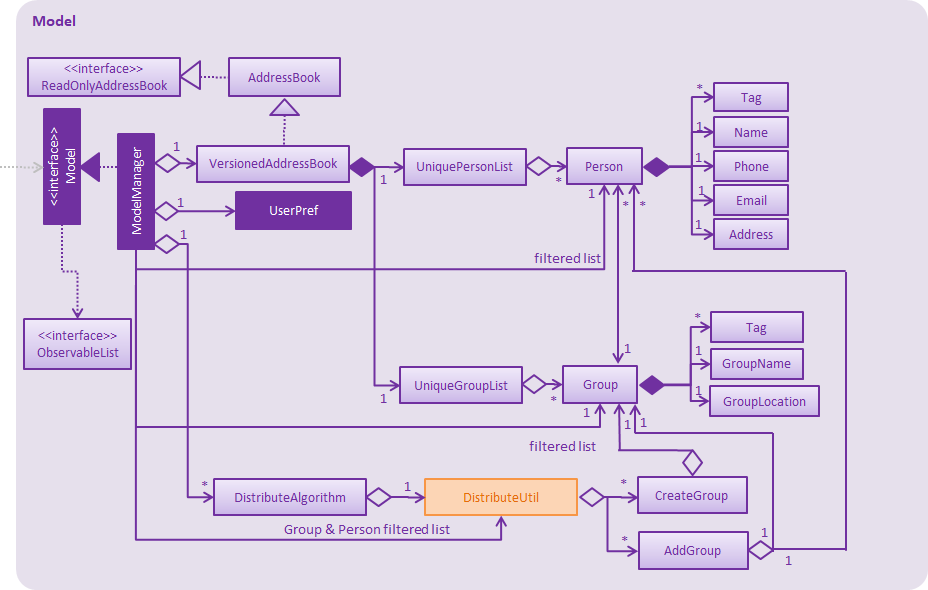
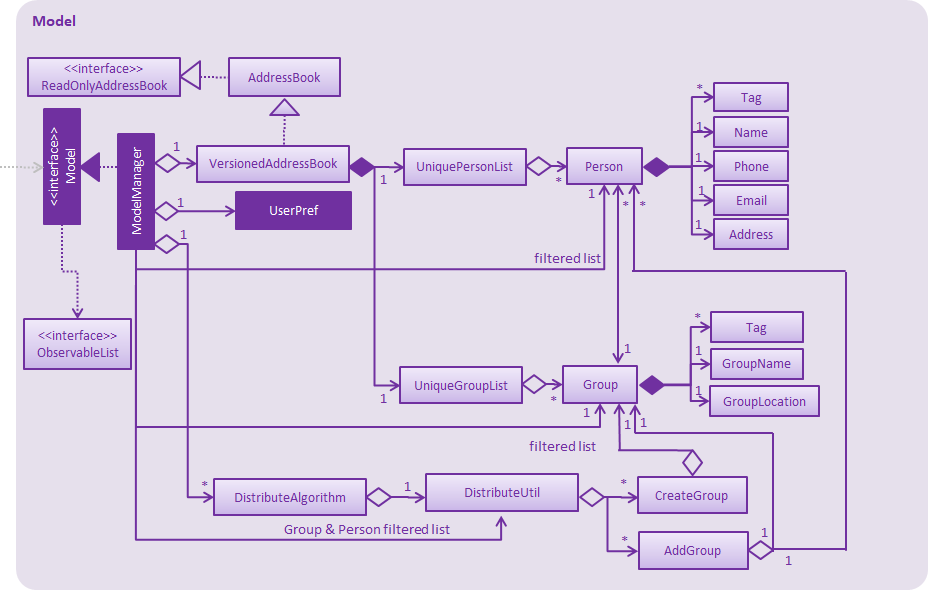
Moved DistributeUtil to Model Component. Moved DistributeUtilTest to ModelTest Component. All files commited are affected by the refactoring. Redesigned Sequence Diagram and UML Class diagram due to restructuring

Changed region(s): [[0.4375, 0.7932, 0.625, 0.8847]]

diff --git a/src/test/java/seedu/address/model/distribute/DistributeUtilTest.java b/src/test/java/seedu/address/model/distribute/DistributeUtilTest.java
@@ -1,13 +1,13 @@
-package seedu.address.commons.util;
+package seedu.address.model.distribute;
 
 import static org.junit.Assert.assertEquals;
 import static org.junit.Assert.assertFalse;
 import static org.junit.Assert.assertNotEquals;
 import static org.junit.Assert.assertNull;
 import static org.junit.Assert.assertTrue;
-import static seedu.address.commons.util.DistributeUtil.GROUP_LOCATION;
 import static seedu.address.logic.commands.CommandTestUtil.INVALID_GENDER_FLAG_WORD;
 import static seedu.address.logic.commands.CommandTestUtil.VALID_GENDER_FEMALE;
+import static seedu.address.model.distribute.DistributeUtil.GROUP_LOCATION;
 import static seedu.address.model.person.Gender.VALID_GENDER_MALE;
 import static seedu.address.testutil.TypicalPersons.ALICE;
 import static seedu.address.testutil.TypicalPersons.DANIEL;

diff --git a/src/test/java/seedu/address/logic/commands/DistributeCommandIntegrationTest.java b/src/test/java/seedu/address/logic/commands/DistributeCommandIntegrationTest.java
@@ -2,7 +2,7 @@ package seedu.address.logic.commands;
 
 import static org.junit.jupiter.api.Assertions.assertEquals;
 import static seedu.address.commons.core.Messages.MESSAGE_INVALID_COMMAND_FORMAT;
-import static seedu.address.commons.util.DistributeUtil.MESSAGE_DUPLICATE_GROUP;
+import static seedu.address.model.distribute.DistributeUtil.MESSAGE_DUPLICATE_GROUP;
 import static seedu.address.model.distribute.DistributeAlgorithm.MESSAGE_INVALID_SIZE;
 import static seedu.address.model.distribute.DistributeAlgorithm.MESSAGE_TO_BE_IMPLEMENTED;
 import static seedu.address.testutil.TypicalAddressBook.getTypicalAddressBook;

diff --git a/src/test/java/seedu/address/logic/commands/DistributeCommandTest.java b/src/test/java/seedu/address/logic/commands/DistributeCommandTest.java
@@ -12,7 +12,7 @@ import org.junit.Rule;
 import org.junit.Test;
 import org.junit.rules.ExpectedException;
 
-import seedu.address.commons.util.DistributeUtil;
+import seedu.address.model.distribute.DistributeUtil;
 import seedu.address.logic.CommandHistory;
 import seedu.address.logic.commands.exceptions.CommandException;
 import seedu.address.logic.parser.exceptions.ParseException;

diff --git a/src/main/java/seedu/address/model/distribute/DistributeAlgorithm.java b/src/main/java/seedu/address/model/distribute/DistributeAlgorithm.java
@@ -15,7 +15,6 @@ import java.util.logging.Logger;
 
 import javafx.collections.ObservableList;
 import seedu.address.commons.core.LogsCenter;
-import seedu.address.commons.util.DistributeUtil;
 import seedu.address.logic.commands.exceptions.CommandException;
 import seedu.address.model.Model;
 import seedu.address.model.person.Nationality;

diff --git a/src/main/java/seedu/address/model/distribute/DistributeUtil.java b/src/main/java/seedu/address/model/distribute/DistributeUtil.java
@@ -1,4 +1,4 @@
-package seedu.address.commons.util;
+package seedu.address.model.distribute;
 
 import static java.util.Objects.requireNonNull;
 import static java.util.stream.Collectors.toMap;
